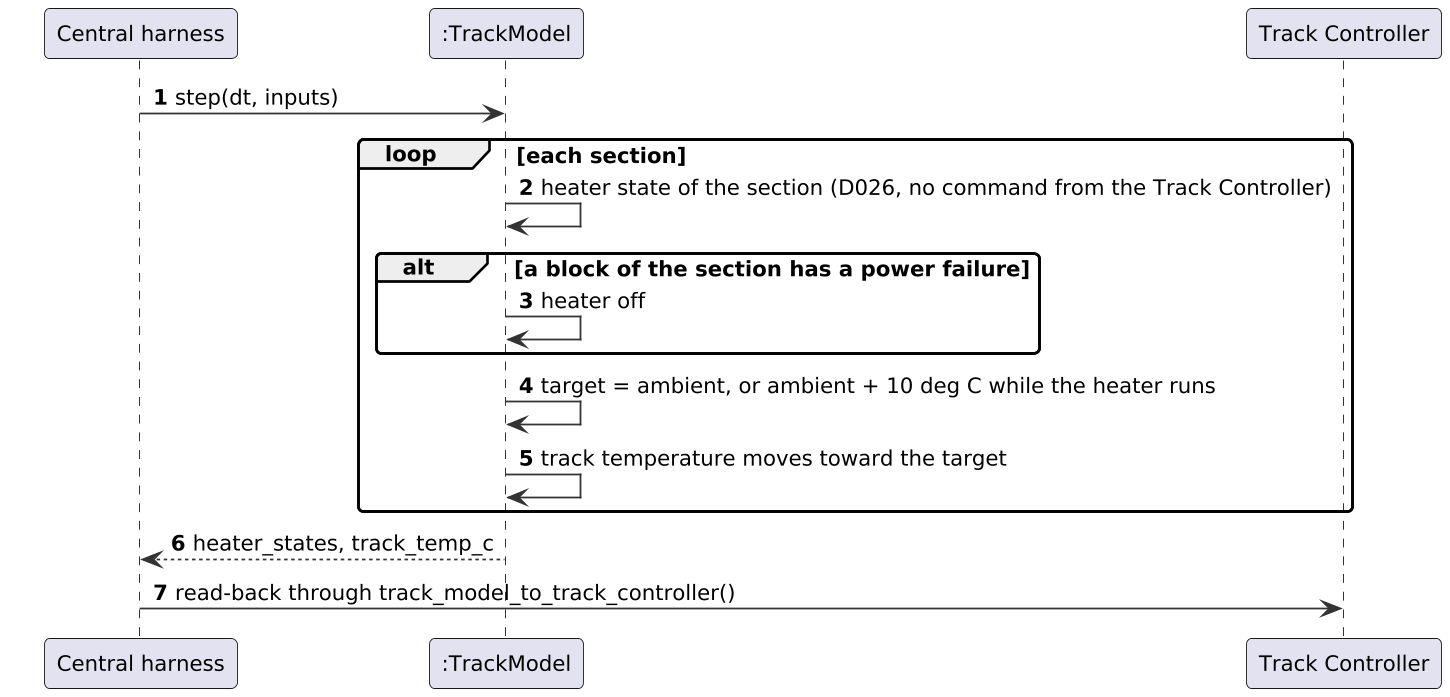
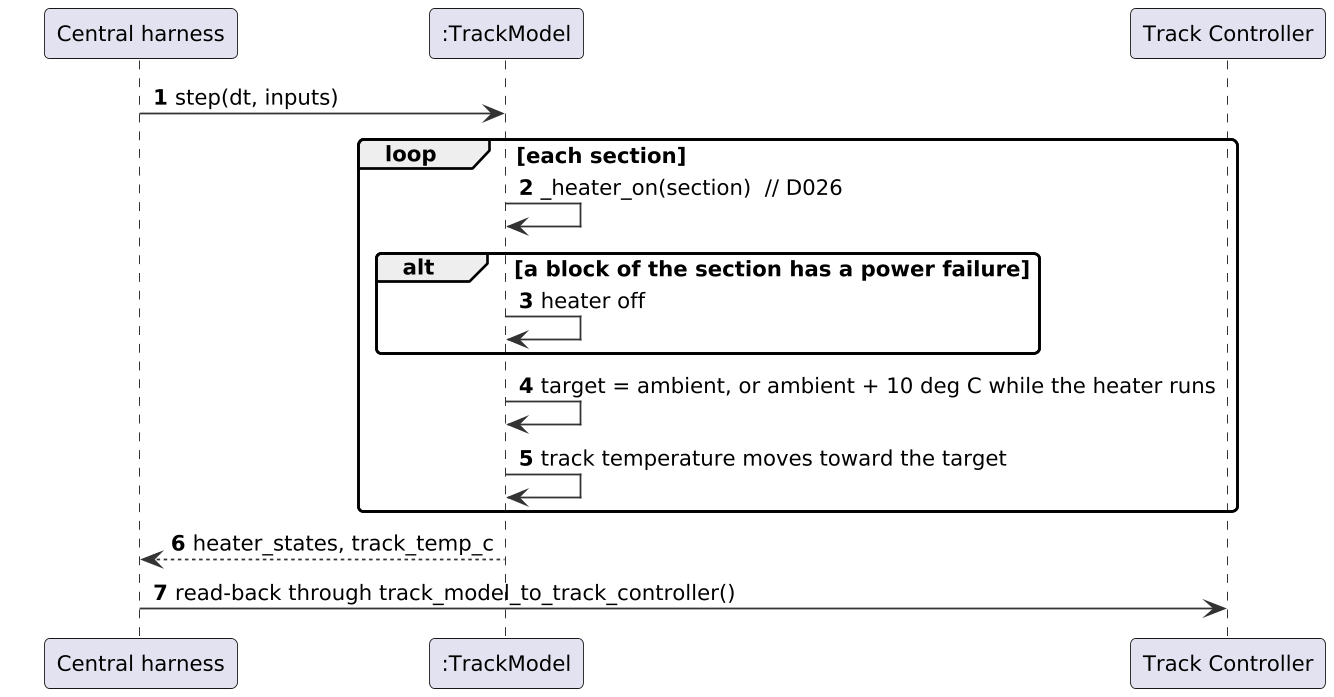
Track Model SDD: class diagrams show every function the sequences use
Add the private methods the sequence diagrams call (_adopt, _restart,
_track_signal, _signal_state, _gate_closed, _heater_on, _signal_seen,
_controller_outputs, _ctc_outputs, _carry_into) and the layout.py
functions to class diagram 1. Add TrackModelProcess, ModuleLink, wire and
the window signals to class diagram 2. Bring the text in line with the
newer Track Model code: commanded speed is a float and lasts one tick,
the harness sends no ambient temperature, sim_time_s is an input, and the
harness reaches step through TrackModelProcess (SD-15).

Claude-Session: https://claude.ai/code/session_01V9wXuyLyBXYN6RYuRpAMhZ

diff --git a/documents/sdd/track_model.md b/documents/sdd/track_model.md
@@ -79,7 +79,7 @@ Out of scope:
 | Authority | The number of blocks a train may still enter beyond its current block. 0 means stop before leaving the current block. |
 | Beacon | Station data (station name, platform side, underground flag) broadcast near a station. |
 | Block | The smallest unit of track, named by a string such as `GREEN D-13`. At most one train occupies it. |
-| Commanded speed | The speed, in whole m/s, that the Track Controller sends to the track circuit of a block. |
+| Commanded speed | The speed, in m/s, that the Track Controller sends to the track circuit of a block. |
 | CTC | Centralized Traffic Control — the module that issues movement authority / routing decisions across the track network. |
 | Edge | The connection from one module to another. The harness has one pure mapping function for each edge. |
 | Fail-safe | A fault drives the system to its most restrictive state. |
@@ -205,7 +205,7 @@ Physical, Structure, Dependency, Information, Algorithm, State Dynamics, Concurr
 
 - **More Information:**
 
-  Every type is a frozen dataclass or an enumeration, so a value cannot change after it is sent. Every value is in its backend unit: metres, m/s, degrees and degrees Celsius (D002). Every ID is a string: a block is `GREEN D-13`, a section is `GREEN D`. A switch is keyed by the block of its point, a signal by the block it stands on, a crossing by its block. Commanded speed and authority are per block, never per train, because the Track Controller knows which blocks are occupied, not which train is in them. Speed is a whole number of m/s and authority is a whole number of blocks (D013). The fields are described in Appendix G.
+  Every type is a frozen dataclass or an enumeration, so a value cannot change after it is sent. Every value is in its backend unit: metres, m/s, degrees and degrees Celsius (D002). Every ID is a string: a block is `GREEN D-13`, a section is `GREEN D`. A switch is keyed by the block of its point, a signal by the block it stands on, a crossing by its block. Commanded speed and authority are per block, never per train, because the Track Controller knows which blocks are occupied, not which train is in them. Commanded speed is in m/s and authority is a whole number of blocks (D013). The fields are described in Appendix G.
 
 ### 004-interface — Module Interface Contracts
 - **Viewpoint:** Interface
@@ -215,7 +215,7 @@ Physical, Structure, Dependency, Information, Algorithm, State Dynamics, Concurr
 
 - **More Information:**
 
-  The whole interface for the other modules is one call, `step(dt, inputs)`, which returns the outputs. The harness calls it once per tick. The other methods serve the Track Model window (`snapshot`, `set_block_failure`, `set_ambient_temp`, `load_layout_file`) or the test UI (`edit_block`, `reset`). The module does not know that a test UI exists.
+  The whole interface for the other modules is one call, `step(dt, inputs)`, which returns the outputs. The harness calls it once per tick. The other methods serve the Track Model window (`snapshot`, `set_block_failure`, `set_ambient_temp`, `load_layout_file`) or the test UI (`edit_block`, `reset`). The module does not know that a test UI exists. In the running system the call reaches `step` through the module's process: the harness sends a STEP message, `TrackModelProcess` decodes it with `wire.py`, and the reply carries the encoded outputs (SD-15).
 
   The harness owns one pure function for each connection:
 
@@ -236,7 +236,7 @@ Physical, Structure, Dependency, Information, Algorithm, State Dynamics, Concurr
 
 ![Figure 5. Movement authority request across the CTC, Track controller, Track Model, Train model and Train controller.](../uml/track_model/18_seq_authority.png)
 
-  The CTC suggests a speed and authority for each block. The Track controller runs its PLC program and its vital supervisor, which can only make an output more restrictive, and sends a speed and an authority to the track circuit of each block, with its switch, signal and crossing commands. The harness maps them to the Track Model's inputs. The Track Model checks the whole tick before changing anything, stores the values for each block, places the trains from their reports, and builds a feed for each train. The train receives the speed and authority of the block it is in; a block that was never commanded, or whose circuit has failed, carries 0 and 0. The harness passes the feed to the Train model, and the light the train saw on entering a signal block to the Train controller. The full dispatch scenario is SD-16 in Appendix D.
+  The CTC suggests a speed and authority for each block. The Track controller runs its PLC program and its vital supervisor, which can only make an output more restrictive, and sends a speed and an authority to the track circuit of each block, with its switch, signal and crossing commands. The harness maps them to the Track Model's inputs. The Track Model checks the whole tick before changing anything, stores the values for each block, places the trains from their reports, and builds a feed for each train. The train receives the speed and authority of the block it is in; a block that was not commanded on this tick, or whose circuit has failed, carries 0 and 0. The harness passes the feed to the Train model, and the light the train saw on entering a signal block to the Train controller. The full dispatch scenario is SD-16 in Appendix D.
 
 ---
 
@@ -298,7 +298,7 @@ Physical, Structure, Dependency, Information, Algorithm, State Dynamics, Concurr
   - Check the whole tick first and reject it as a whole, so that nothing changes.
   - Check each value as it is used and keep the valid part.
   - Trust the caller.
-- **Outcome:** The first option. `step` raises `InvalidInputError` or `UnknownIdError` for a non-finite number, a speed or authority that is not a whole non-negative number, or an ID that is not in the layout. A bad layout file raises `LayoutError` and the loaded track is kept.
+- **Outcome:** The first option. `step` raises `InvalidInputError` or `UnknownIdError` for a non-finite number, a speed that is not finite and non-negative, an authority that is not a whole non-negative number, or an ID that is not in the layout. A bad layout file raises `LayoutError` and the loaded track is kept.
 
 ### 4.7 Knowledge Capture and Decision Logging
 
@@ -340,7 +340,7 @@ Authority is the number of blocks a train may still enter before it must stop (D
 
 - **CTC office:** suggests a speed and an authority for each block.
 - **Track controller:** passes a block's suggestion down its track circuit or replaces it with speed 0 and authority 0. Its vital supervisor can only make a result more restrictive; it never raises a speed or extends an authority.
-- **Track Model:** stores the speed and the authority of each block as the signal of that block's track circuit. A train receives the signal of the block it is in. A block that was never commanded, or whose track circuit has failed, carries speed 0 and authority 0.
+- **Track Model:** keeps the speed and the authority of each block, for this tick only, as the signal of that block's track circuit. A train receives the signal of the block it is in. A block not commanded on a tick, or whose track circuit has failed, carries speed 0 and authority 0.
 - **Train controller:** stops the train inside its authority.
 
 Authority and commanded speed are per block, not per train, like the signal on the rails.
@@ -373,6 +373,7 @@ For the Track Model the language matters only through its outputs, which arrive 
 - **One clock:** `SystemClock` (`utils/system_clock.py`) is the only clock. The harness owns it and sends dt and the simulation time to every module on each tick. A module sees its inputs only on the rising edge of the clock (D017).
 - **Fixed step:** dt is 0.1 s and constant. Speed changes only the tick rate: 1x is 10 ticks per real second and 10x is 100 (D006, D017).
 - **Pause:** the CTC office can pause and resume the clock, and set its speed to 1x or 10x.
+- **Display:** the Track Model window shows the central clock's time of day.
 - **Waiting:** the harness waits for every module's reply to a tick before it sends the next. If a reply takes longer than about 1 s, it pauses the clock and names the late module.
 - **Order in a tick:** the Track Model steps on the previous tick's train reports, then each Train model steps on this tick's feed.
 
@@ -424,12 +425,12 @@ The same use cases, one diagram for each actor:
 | UC-4 | Report State to Track Controller | Track Controller | (1) Every tick the Track Model builds the actual state of every device: block occupancy, switch positions, crossing gates, signal aspects, failure status, heater states and track temperature. (2) It returns it for the Track controller. The CTC office reads it through the Track controller. | Out: TrackControllerOutputs. | Tick or failure injected. The read-back shows the actual state, which a failure can make differ from the command. | SD-04 |
 | UC-5 | Apply Switch Position | Track Controller | (1) The Track controller commands a switch position. (2) The switch moves to it unless its block has lost power. (3) The actual position is reported. | In: switch commands. Out: switch states. | Command received. The switch shows its actual position. | SD-05 |
 | UC-6 | Apply Signal Lights and Crossing Gates | Track Controller | (1) The Track controller commands signal aspects and crossing gates. (2) A light shows its commanded aspect, or RED without power. A gate is down when commanded, or without power. | In: signal and crossing commands. Out: signal and gate states. | Command received. Lights and gates show the new state. | SD-06 |
-| UC-7 | Deliver Track Circuit Signal | Track Controller, Train Model | (1) The Track controller sends a speed (whole m/s) and an authority (blocks) for each block. (2) The Track Model stores them as the signal of that block's track circuit. (3) Each train receives the signal of the block it is in. A failed circuit, or a block never commanded, carries speed 0 and authority 0. | In: speed and authority per block. Out: TrackSignal in the train feed. | Tick. The train gets the signal of its block. | SD-07 |
+| UC-7 | Deliver Track Circuit Signal | Track Controller, Train Model | (1) The Track controller sends a speed (m/s) and an authority (blocks) for each block. (2) The Track Model keeps them, for this tick, as the signal of that block's track circuit. (3) Each train receives the signal of the block it is in. A failed circuit, or a block not commanded this tick, carries speed 0 and authority 0. | In: speed and authority per block. Out: TrackSignal in the train feed. | Tick. The train gets the signal of its block. | SD-07 |
 | UC-8 | Send Beacon Data | Train Model | (1) Beacons stand on the blocks next to a station block. (2) When a train is in a beacon block, its feed carries the station name, platform side and underground flag. | Out: Beacon in the train feed. | Train in a beacon block. The feed carries the beacon. | SD-08 |
 | UC-9 | Send Signal Light to Train Controller | Train Controller | (1) A signal stands on the block before each switch. (2) On the tick a train enters such a block, the Track Model reports the light's colour for that train; on every other tick it reports none. (3) The harness sends it to the Train controller, which keeps it. | Out: `signal_seen` per train. | Train enters a signal block. The Train controller receives the colour once. | SD-09 |
 | UC-10 | Sell Tickets and Board Passengers | Train Model | (1) Each station may sell one ticket per tick, at a configured probability, and keeps a queue of waiting passengers. (2) A train that is stopped in a station block with a door open takes min(waiting, capacity) passengers. (3) The count is returned in the train feed. | In: speed, doors, capacity. Out: passengers boarded. | Train stopped with a door open. The waiting count falls and the train is told how many boarded. | SD-10 |
 | UC-11 | Report Ticket Sales | CTC Office | (1) Every tick the Track Model reports the tickets sold on that tick, by station. (2) It keeps no running total and sends none. (3) The harness sends the sales to the CTC office as (count, station) pairs. | Out: `tickets_sold_now`. | Tick. The CTC office receives the sales of that tick. | SD-11 |
-| UC-12 | Set Ambient Temperature | Murphy | (1) Murphy enters a temperature in °F in the Track Model window. (2) It replaces the temperature the harness or test UI sends, until the module restarts. | In: temperature. Out: displayed ambient temperature. | Value entered. Track temperature follows it. | SD-12 |
+| UC-12 | Set Ambient Temperature | Murphy | (1) Murphy enters a temperature in °F in the Track Model window. (2) The harness sends no temperature, so the window is the source. A value set there replaces one sent by a test UI, until the module restarts. | In: temperature. Out: displayed ambient temperature. | Value entered. Track temperature follows it. | SD-12 |
 | UC-13 | Switch Track Heaters | Murphy (indirect) | (1) The Track Model switches each section's heaters itself (D026). (2) Each section's track temperature eases toward ambient, or toward ambient plus 10 °C while its heaters run. (3) A power failure in any block of the section stops its heaters. | In: ambient temperature. Out: heater state and track temperature per section. | Temperature change. Heater states and track temperatures change. | SD-13 |
 | UC-14 | Inject or Clear Failure | Murphy | (1) Murphy selects a block and a failure: broken rail, track circuit or power. (2) The block reads occupied and its track circuit carries nothing, so a train in it gets speed 0 and authority 0. (3) A power failure also holds the block's switch, shows its light RED, drops its crossing gates and stops its section's heaters. | In: block and failure. Out: failure shown in the window and in the read-back. | Failure selected. The Track controller sees it at once, between ticks. | SD-14 |
 
@@ -437,18 +438,18 @@ The same use cases, one diagram for each actor:
 
 #### C.1 Software Architecture
 
-The Track Model runs as one process with a window. The window (Qt Quick, PySide6) shows state through `TrackModelState`, which converts to display units. The module core (`model.py`, `layout.py`) has no Qt code. The boundary types and the `TrackModel` Protocol are in `interface.py`. The test scaffolding (`test_link/`, `test_ui/`) is not part of the module and is removed at integration. At integration the harness calls `step` through the edge functions in `common/harness/`.
+The Track Model runs as one process with a window. The window (Qt Quick, PySide6) shows state through `TrackModelState`, which converts to display units. The module core (`model.py`, `layout.py`) has no Qt code. The boundary types and the `TrackModel` Protocol are in `interface.py`. The test scaffolding (`test_link/`, `test_ui/`) is not part of the module and is removed at integration. At integration the harness starts the module as its own process (`module_process.py`). A `TrackModelProcess` receives each STEP message, decodes the JSON with `wire.py`, calls `step` and replies with the encoded outputs. The edge functions in `common/harness/` map the other modules' types.
 
 ![Figure 13. Track Model software architecture (component diagram).](../uml/track_model/06_component.png)
 
 #### C.2 Class Diagrams
 
-Figure 14 shows the module core and Figure 15 the window and the test link.
+Figure 14 shows the module core and Figure 15 the window, the harness process and the test link.
 
 ![Figure 14. Class diagram 1: module core.](../uml/track_model/04_class_core.png)
 
 
-![Figure 15. Class diagram 2: window and test link.](../uml/track_model/05_class_ui.png)
+![Figure 15. Class diagram 2: window, harness process and test link.](../uml/track_model/05_class_ui.png)
 
 #### C.3 Data Design
 
@@ -458,14 +459,14 @@ Figure 14 shows the module core and Figure 15 the window and the test link.
 
 **Derived from the layout.** Switch legs come from the switch text in the layout. The first leg listed is NORMAL. A signal stands on each block next to a switch point on its fixed side. A beacon stands on each neighbour of a station block.
 
-**Runtime state.** Each device keeps what the Track controller commanded and what it is actually doing: `_switch_cmd` and `_switches`, `_signal_cmd`, `_crossing_cmd`. Also kept: `_failures` by block, `_commanded_speed` and `_authority` by block, `_trains`, `_waiting` passengers by station, and `_track_temp_c` by section. Devices start safe: switches NORMAL, gates up, lights RED, heaters off. `TrackConfig` holds the layout paths, the ticket probability per station per tick (default 0.02) and a random seed.
+**Runtime state.** Each device keeps what the Track controller commanded and what it is actually doing: `_switch_cmd` and `_switches`, `_signal_cmd`, `_crossing_cmd`. Also kept: `_failures` by block, `_commanded_speed` and `_authority` by block (this tick's values only), `_trains`, `_waiting` passengers by station, and `_track_temp_c` by section. Devices start safe: switches NORMAL, gates up, lights RED, heaters off. `TrackConfig` holds the layout paths, the ticket probability per station per tick (default 0.02) and a random seed.
 
 #### C.4 Algorithms
 
 **One tick (`step`).**
 
 1. Check the whole input. If anything is wrong, raise and change nothing.
-2. Store the Track controller's commands. A switch moves to its command unless its block has lost power.
+2. Store the Track controller's commands. Commanded speed and authority last one tick: a block not commanded on a tick reads 0 and 0. A switch moves to its command unless its block has lost power.
 3. Work out each device's actual state: what was commanded, unless a failure overrides it.
 4. Move each section's track temperature toward ambient, or toward ambient plus 10 °C while the section's heaters run. The time constant is 300 s. Both numbers are placeholders.
 5. Move trains across block boundaries from their reported offsets.
@@ -503,7 +504,7 @@ The test UI is a separate program (`test_ui/`). It stands in for the Track contr
 
 ### D. Sequence Diagrams
 
-Each use case has one sequence diagram, numbered to match: SD-01 is the diagram of UC-1, and so on. SD-15 is an overview of one tick and SD-16 is the system-level dispatch scenario. Figure 5 (Section 3) is the movement authority request.
+Each use case has one sequence diagram, numbered to match: SD-01 is the diagram of UC-1, and so on. SD-15 is an overview of one tick and SD-16 is the system-level dispatch scenario. Figure 5 (Section 3) is the movement authority request. In SD-01 to SD-14, "Central harness → Track Model: step" stands for the longer path shown in SD-15 (STEP message, `TrackModelProcess`, JSON decode).
 
 | Diagram | Title | Use case |
 |--------|------------------------------------|---------------|
@@ -591,8 +592,8 @@ Every value is in its backend unit (D002). Per-block data is keyed by block ID, 
 
 | ID | Direction | Signal | Type | Units | Description |
 |----|----------|----------|-----------|------|-----------------|
-| IF-01 | Track Controller → Track Model | commanded_speed_mps | dict[block, int] | m/s | Speed for the track circuit of each block, a whole number. |
-| IF-02 | Track Controller → Track Model | commanded_authority | dict[block, int] | blocks | Blocks a train in that block may still enter. 0 = stop. |
+| IF-01 | Track Controller → Track Model | commanded_speed_mps | dict[block, float] | m/s | Speed for the track circuit of each block. Valid for this tick only: a block not commanded on a tick reads 0. |
+| IF-02 | Track Controller → Track Model | commanded_authority | dict[block, int] | blocks | Blocks a train in that block may still enter. 0 = stop. Valid for this tick only. |
 | IF-03 | Track Controller → Track Model | switch_commands | dict[switch, SwitchPosition] | - | Keyed by the block of the switch point. |
 | IF-04 | Track Controller → Track Model | crossing_commands | dict[block, bool] | - | True = gate closed. |
 | IF-05 | Track Controller → Track Model | signal_commands | dict[block, SignalAspect] | - | Aspect of the light on the block. |
@@ -603,23 +604,24 @@ Every value is in its backend unit (D002). Per-block data is keyed by block ID, 
 | IF-10 | Train Model → Track Model | passenger_capacity | int | persons | Passengers the train can take. |
 | IF-11 | Train Model → Track Model | block_changed | bool | - | Recorded, not used. |
 | IF-12 | Harness → Track Model | dt | float | s | Tick length, fixed at 0.1 s. |
-| IF-13 | Harness → Track Model | ambient_temp_c | float | deg C | Ambient temperature. A value set in the Track Model window replaces it. |
-| IF-14 | Murphy (window) → Track Model | set_block_failure | (block, TrackFailure) | - | Inject or clear NONE, BROKEN_RAIL, TRACK_CIRCUIT or POWER. |
-| IF-15 | Murphy (window) → Track Model | set_ambient_temp | float | deg C | Entered in deg F and converted by the window. |
-| IF-16 | Track Builder (window) → Track Model | load_layout_file | path to .json | - | Replaces or adds a line and restarts the module. |
-| IF-17 | Track Model → Track Controller | block_occupancy | dict[block, bool] | - | True if a train is in the block or its circuit has failed. |
-| IF-18 | Track Model → Track Controller | switch_states | dict[switch, SwitchPosition] | - | Actual positions. |
-| IF-19 | Track Model → Track Controller | crossing_states | dict[block, bool] | - | True = gate closed (also closed without power). |
-| IF-20 | Track Model → Track Controller | signal_states | dict[block, SignalAspect] | - | Actual aspects (RED without power). |
-| IF-21 | Track Model → Track Controller | failure_status | dict[block, TrackFailure] | - | Active failure on each block. |
-| IF-22 | Track Model → Track Controller | heater_states | dict[section, bool] | - | Heaters actually running. |
-| IF-23 | Track Model → Track Controller | track_temp_c | dict[section, float] | deg C | Track temperature of each section. |
-| IF-24 | Track Model → CTC Office | tickets_sold_now | dict[station, int] | tickets | Tickets sold this tick. No running total is kept or sent. The edge sends (count, station) pairs. |
-| IF-25 | Track Model → Train Model | track_info | block_id, grade_deg, elevation_m, speed_limit_mps, polarity, station_name | deg, m, m/s | Terrain of the occupied block. Polarity reverses at every block change. |
-| IF-26 | Track Model → Train Model | track_signal | commanded_speed_mps: int, authority_blocks: int | m/s, blocks | Track circuit signal of the occupied block. 0 and 0 on a dead circuit. |
-| IF-27 | Track Model → Train Model | beacon | station_name, platform_side, underground | - | Platform side is L, R or LR. None when not over a beacon. |
-| IF-28 | Track Model → Train Model | passengers_boarded | int | persons | Passengers who boarded this tick. |
-| IF-29 | Track Model → Train Controller | signal_seen | dict[train, SignalAspect or None] | - | Colour of the light as the train enters a signal block, on that tick only. Sent directly, not through the Train Model. |
+| IF-13 | Harness → Track Model | sim_time_s | float or None | s | Simulation time from the central clock, sent with each step. The window shows it as the time of day. |
+| IF-14 | Harness → Track Model | ambient_temp_c | float or None | deg C | Optional. The central harness sends none; the Track Model window is the source. A value set in the window replaces one sent. |
+| IF-15 | Murphy (window) → Track Model | set_block_failure | (block, TrackFailure) | - | Inject or clear NONE, BROKEN_RAIL, TRACK_CIRCUIT or POWER. |
+| IF-16 | Murphy (window) → Track Model | set_ambient_temp | float | deg C | Entered in deg F and converted by the window. |
+| IF-17 | Track Builder (window) → Track Model | load_layout_file | path to .json | - | Replaces or adds a line and restarts the module. |
+| IF-18 | Track Model → Track Controller | block_occupancy | dict[block, bool] | - | True if a train is in the block or its circuit has failed. |
+| IF-19 | Track Model → Track Controller | switch_states | dict[switch, SwitchPosition] | - | Actual positions. |
+| IF-20 | Track Model → Track Controller | crossing_states | dict[block, bool] | - | True = gate closed (also closed without power). |
+| IF-21 | Track Model → Track Controller | signal_states | dict[block, SignalAspect] | - | Actual aspects (RED without power). |
+| IF-22 | Track Model → Track Controller | failure_status | dict[block, TrackFailure] | - | Active failure on each block. |
+| IF-23 | Track Model → Track Controller | heater_states | dict[section, bool] | - | Heaters actually running. |
+| IF-24 | Track Model → Track Controller | track_temp_c | dict[section, float] | deg C | Track temperature of each section. |
+| IF-25 | Track Model → CTC Office | tickets_sold_now | dict[station, int] | tickets | Tickets sold this tick. No running total is kept or sent. The edge sends (count, station) pairs. |
+| IF-26 | Track Model → Train Model | track_info | block_id, grade_deg, elevation_m, speed_limit_mps, polarity, station_name | deg, m, m/s | Terrain of the occupied block. Polarity reverses at every block change. |
+| IF-27 | Track Model → Train Model | track_signal | commanded_speed_mps: float, authority_blocks: int | m/s, blocks | Track circuit signal of the occupied block. 0 and 0 on a dead circuit. |
+| IF-28 | Track Model → Train Model | beacon | station_name, platform_side, underground | - | Platform side is L, R or LR. None when not over a beacon. |
+| IF-29 | Track Model → Train Model | passengers_boarded | int | persons | Passengers who boarded this tick. |
+| IF-30 | Track Model → Train Controller | signal_seen | dict[train, SignalAspect or None] | - | Colour of the light as the train enters a signal block, on that tick only. Sent directly, not through the Train Model. |
 
 ### H. Requirements Traceability
 
